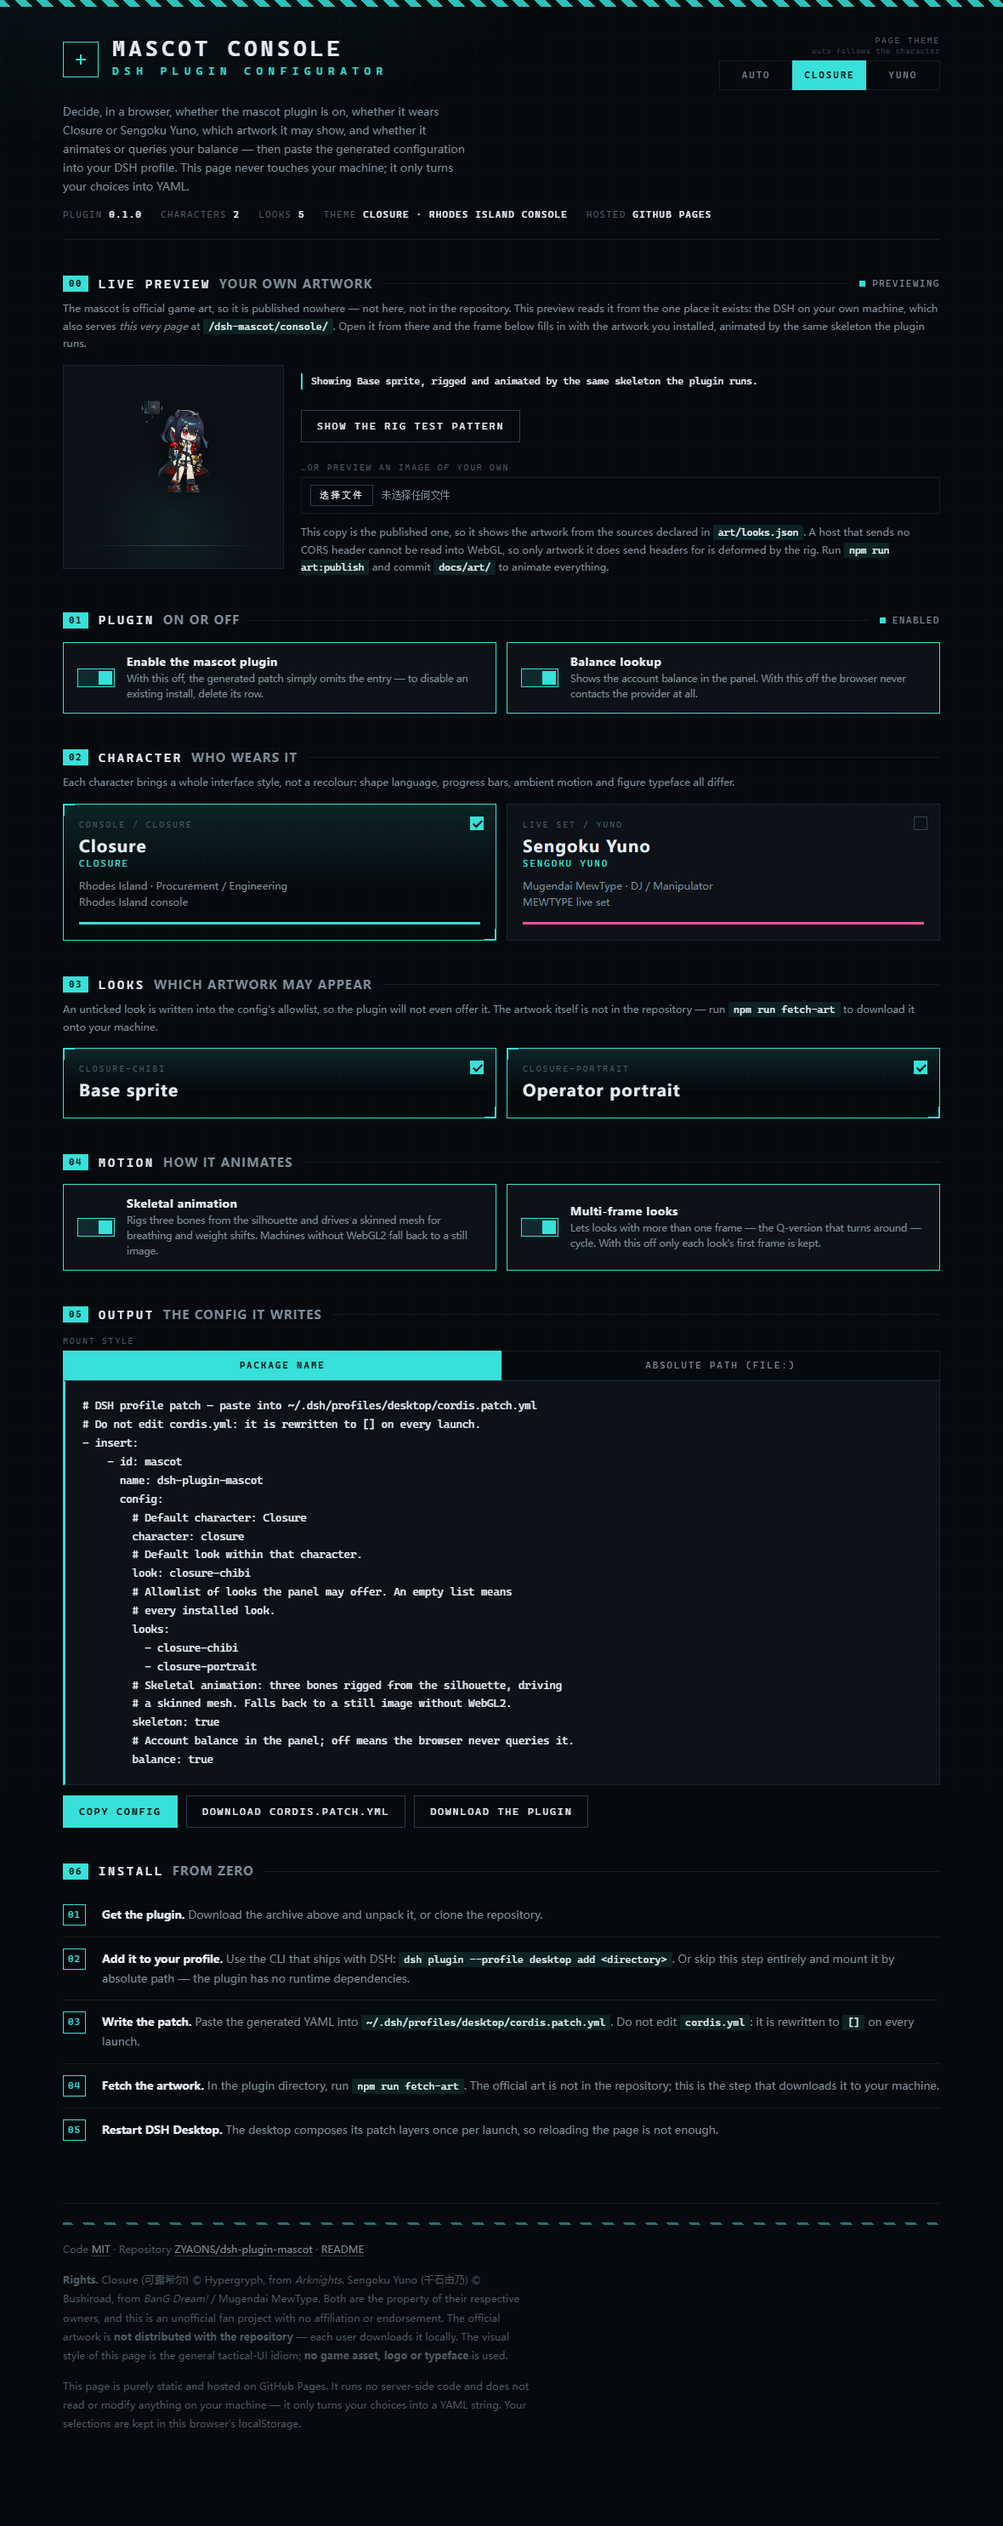
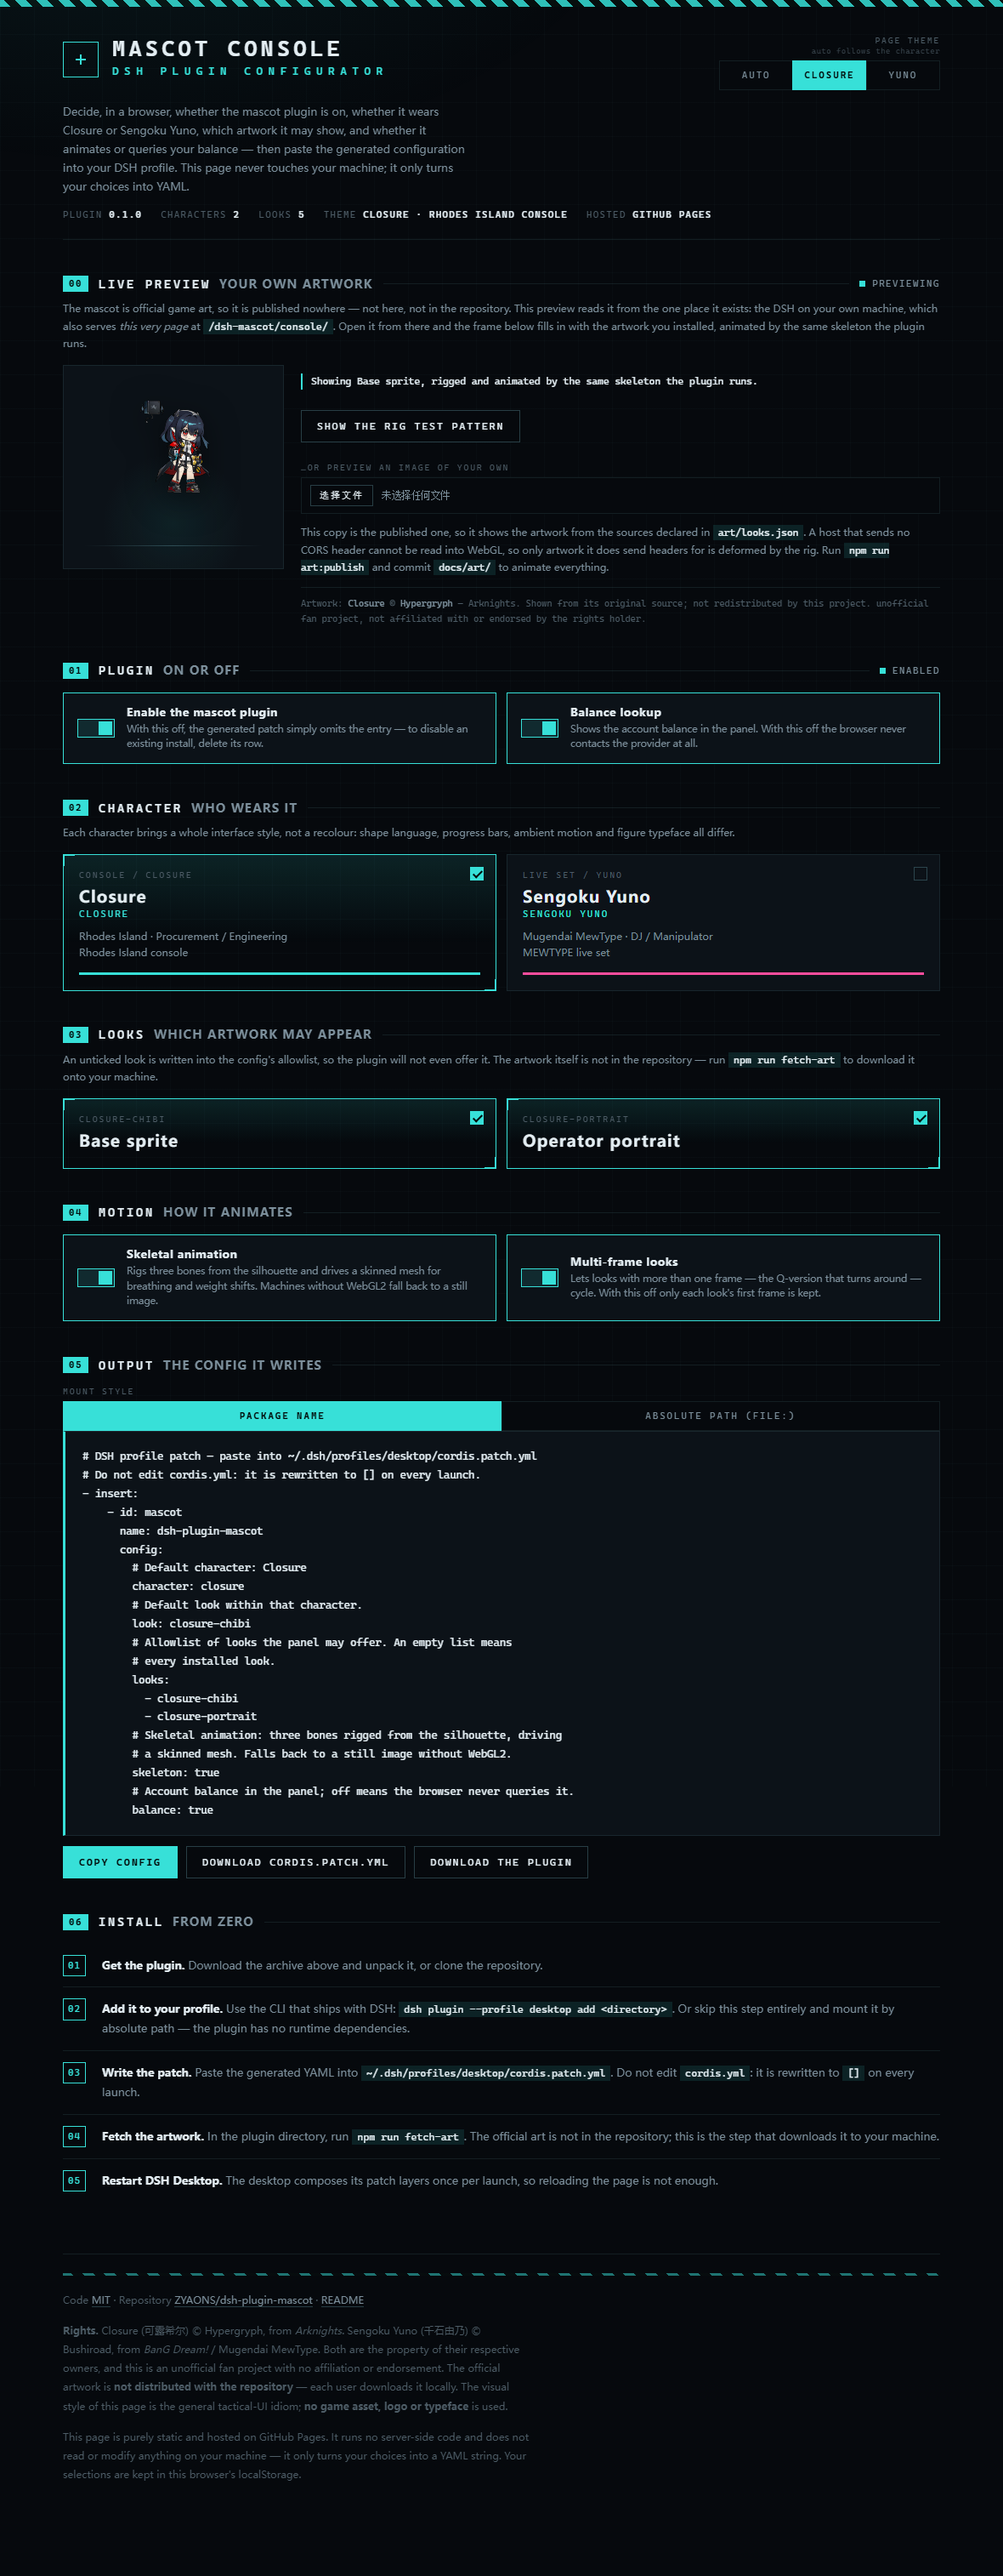
docs(legal): pin the copyright position down, and make it enforce itself
The console shows someone else's characters, so the project's posture towards that
should not be a paragraph in a README that a test can contradict.

What is actually settled, rather than assumed. Bushiroad publishes explicit terms for
BanG Dream!, which the Yuno looks fall under:

  https://bang-dream.com/bdp-guideline/

They permit derivatives for individuals, non-commercially, and state the project will
not claim infringement for uses that follow the terms. They also prohibit, at clause
5, "use that copies, traces or imports the content without adding any creativity".
That clause is what decides the design: committing closure-chibi.png into docs/ so
Pages would serve it is precisely the prohibited act, and redistribution of the
original asset was never inside a rule written for individual derivative works in the
first place. No equally explicit public guideline from Hypergryph surfaced while
writing this, so the stricter posture is applied to both characters.

Hence COPYRIGHT.md: what is MIT, what is not, who owns what, what the project does
instead of displaying artwork as-is (measures it, rigs it, drives it with a renderer
written here), and the six rules it holds itself to.

The rules are now enforced rather than stated:

  - npm test fails if any image under art/ or docs/art/ is tracked by git. Verified
    both ways: force-add a file and the suite refuses with the filename; remove it and
    the suite passes. A check that cannot fail is not a check.
[…]

diff --git a/docs/site/site.js b/docs/site/site.js
@@ -277,6 +277,7 @@ function render() {
   applyTheme();
   // The preview follows the selection: switching character switches what floats in
   // the frame, which is the point of having it here at all.
+  paintCredit(state.character);
   const preview = previewRef.current;
   if (preview !== null && preview !== undefined) {
     preview.show(state.character, enabledLooks(state.character)[0]?.id).catch(() => {});
@@ -286,6 +287,31 @@ function render() {
 //#endregion
 
 //#region preview
+/**
+ * Who owns the character on screen.
+ *
+ * Shown next to the artwork rather than only in the footer: the console displays
+ * someone else's character, and the credit belongs where the reader is looking.
+ * See COPYRIGHT.md — this project ships no artwork and claims no rights in it.
+ */
+const CREDITS = {
+  closure: { work: "Arknights", owner: "Hypergryph", note: "unofficial fan project" },
+  yuno: { work: "BanG Dream! / Mugendai MewType", owner: "Bushiroad", note: "unofficial fan project" },
+};
+
+/** Paint the attribution for the selected character. */
+function paintCredit(characterId) {
+  const credit = CREDITS[characterId];
+  const node = $("preview-credit");
+  if (credit === undefined) {
+    node.textContent = "";
+    return;
+  }
+  const character = characterOf(characterId);
+  node.innerHTML =
+    `Artwork: <b>${character?.nameEn ?? characterId}</b> © <b>${credit.owner}</b> — ${credit.work}. ` +
+    `Shown from its original source; not redistributed by this project. ${credit.note}, not affiliated with or endorsed by the rights holder.`;
+}
 /** The live preview, created on boot. A ref so `render` can reach it. */
 const previewRef = { current: null };
 

diff --git a/docs/site/site.css b/docs/site/site.css
@@ -359,6 +359,12 @@ footer .legal { margin-top: 14px; max-width: 78ch; }
 
 .preview-side { display: grid; gap: 12px; align-content: start; }
 .preview-note { margin: 0; font-size: 12px; line-height: 1.7; color: var(--dim); }
+/* Attribution sits with the artwork, not only in the footer. */
+.credit {
+  margin: 0; padding-top: 10px; border-top: 1px solid var(--line);
+  font-family: var(--mono); font-size: 10.5px; line-height: 1.7; color: var(--dimmer);
+}
+.credit b { color: var(--dim); font-weight: 500; }
 .preview-note code { font-size: 11.5px; }
 .preview-status {
   margin: 10px 0 0; font-family: var(--mono); font-size: 11.5px; line-height: 1.7;

diff --git a/docs/index.html b/docs/index.html
@@ -73,6 +73,7 @@
           <input id="preview-file" type="file" accept="image/*">
         </label>
         <p class="preview-note" id="preview-note"></p>
+        <p class="credit" id="preview-credit"></p>
       </div>
     </div>
   </section>

diff --git a/COPYRIGHT.md b/COPYRIGHT.md
@@ -1,0 +1,110 @@
+# Copyright and licensing
+
+This repository is **code under MIT** plus **references to artwork that belongs to
+someone else**. The distinction is the whole point of this file.
+
+---
+
+## 1. What is licensed to you
+
+| Path | Status |
+|---|---|
+| `lib/`, `scripts/`, `docs/site/*.js`, `docs/site/*.css`, `docs/index.html` | MIT — see [LICENSE](LICENSE) |
+| `art/looks.json`, `art/index.json` | MIT — these are data this project generated: a declaration and measurements |
+| `README.md`, `README.zh.md`, `COPYRIGHT.md`, `docs/site/*.png` | MIT |
+
+Nothing in this repository is a copy of anyone's artwork. `art/index.json` contains
+*measurements of* artwork — a bounding box, a silhouette profile, a seat size — which
+is why the plugin can rig an image it has never seen.
+
+## 2. What is not licensed to you, because it is not ours
+
+| Character | Owner | Source |
+|---|---|---|
+| Closure / 可露希尔 | © Hypergryph (上海鹰角网络) — *Arknights* / 明日方舟 | official game assets |
+| Sengoku Yuno / 千石由乃 | © Bushiroad — *BanG Dream!* / Mugendai MewType | official game and anime assets |
+
+**No artwork by either owner is contained in this repository, in any commit.**
+`npm run fetch-art` downloads it to the machine that runs the command, for that
+person's own use. `.gitignore` excludes every image path under `art/`, and
+`docs/art/` — where `npm run art:publish` puts a copy — is excluded too.
+
+## 3. The terms this project is built around
+
+Bushiroad publishes an explicit policy for *BanG Dream!*, which the Yuno looks fall
+under: **[「BanG Dream!（バンドリ！）」著作物利用に関するガイドライン](https://bang-dream.com/bdp-guideline/)**.
+Two parts of it shape this project's design.
+
+**The allowance.** Derivatives are permitted for **individuals, for non-commercial
+purposes**, and the project states it will not claim infringement for uses following
+its terms:
+
+> お客様は、本コンテンツを利用し、本コンテンツに新たな創作性を加えお客様ご自身が制作した著作物（以下「二次的著作物」といいます）を、個人により営利を目的としない場合に限り、制作、展示、頒布および公開…することができます。
+
+**The prohibition that decides the design.** Copying the content *as is* is not
+permitted:
+
+> 5. なんらの創作性も加えずに、本コンテンツをコピー、トレース、取り込み等をして利用するもの
+
+That clause is why **this repository never carries the artwork**. Committing
+`closure-chibi.png` into `docs/` so GitHub Pages would serve it would be exactly
+"importing the content without adding creativity" — and redistribution of the
+original asset is not within a rule written for individual, non-commercial
+derivative works in the first place. The same reasoning applies to Closure: no
+equally explicit public guideline from Hypergryph was found while writing this, so
+the stricter of the two postures is applied to both characters.
+
+## 4. What this project does instead, and why that is a derivative work
+
+The plugin does not display the artwork as-is. It:
+
+- measures each image's silhouette and derives a **rig** from it;
+- drives that rig with a **skinning renderer written for this project**;
+- renders the result with a per-character interface built here.
+
+The artwork is the *input* to something this project made, which is the "new
+creativity" the guideline asks for. The web console loads each look **from the
+source that already hosts it**, so the pixels travel from the rights holder's chosen
+host to the viewer's browser and are never redistributed here.
+
+## 5. Rules this project holds itself to
+
+1. **No artwork in the repository.** Enforced by `.gitignore` and by a test:
+   `npm test` fails if any image file is tracked under `art/` or `docs/art/`.
+2. **No redistribution.** `fetch-art` downloads to one machine. `art:publish` copies
+   into `docs/art/` for local preview only, refuses to run without an explicit
+   acknowledgement, and that directory is gitignored.
+3. **Non-commercial.** No advertising, no sponsorship, no paid tier, no donations
+   tied to this project.
+4. **No implied affiliation.** The project is unofficial. It uses no owner's logo,
+   wordmark, typeface or trade dress — the console's visual language is the general
+   tactical-UI idiom.
+5. **Attribution on screen.** Where artwork is displayed, the console names the
+   rights holder next to it rather than burying it in a footer.
+6. **A takedown request is honoured immediately.** If either rights holder objects,
+   the affected looks are removed by deleting their entries from `art/looks.json` —
+   no other part of the project depends on them.
+
+## 6. If you fork this
+
+You inherit none of the artwork rights, and the reasoning above is not legal advice.
+If you want the characters visible on your own deployed copy, the sources are
+declared in `art/looks.json` and the console will load them from there. Publishing
+the files yourself is your decision and your risk — which is why this project makes
+you type the acknowledgement to do it.
+
+---
+
+## 中文摘要
+
+- **代码是 MIT 的**（`lib/`、`scripts/`、`docs/site/`）。`art/index.json` 不是素材，
+  是这个项目自己量出来的数据（包围盒、轮廓剖面），所以也属于代码。
+- **立绘不是我们的**：可露希尔 © 鹰角网络《明日方舟》；千石由乃 © Bushiroad《BanG Dream!》/ 梦限大 MewType。
+- **仓库里一张官方图都没有**，任何一次提交都没有。`npm run fetch-art` 只下载到你自己的机器。
+- Bushiroad 有公开的[著作物利用指引](https://bang-dream.com/bdp-guideline/)，
+  允许**个人、非营利**的二次创作，但**第 5 条明确禁止**「不加任何创作性地复制、描摹、导入」。
+  把官方图提交进 `docs/` 让 Pages 公开提供，正是那一条禁止的事 —— 所以本项目不做。
+- 本项目做的是：自己测轮廓、自己写骨骼与蒙皮、自己做界面 —— 官方图是**输入**，不是产出。
+  公网页面从**素材原本的出处**加载，像素不经过这个仓库。
+- 自我约束写在第 5 节，并且**由测试强制**：`art/` 或 `docs/art/` 下只要有图片被 git 跟踪，`npm test` 就失败。
+- 以上不构成法律意见。如果权利方提出异议，删掉 `art/looks.json` 里对应的条目即可，其余部分不受影响。

diff --git a/README.zh.md b/README.zh.md
@@ -109,6 +109,17 @@ dsh plugin --profile desktop add "github:ZYAONS/dsh-plugin-mascot"
 
 ---
 
+## 版权
+
+**这个仓库里没有一张属于别人的图。** 角色版权归各自权利人所有 ——
+可露希尔 © 鹰角网络《明日方舟》，千石由乃 © Bushiroad《BanG Dream!》/ 梦限大 MewType ——
+`npm run fetch-art` 是把图下载到每台机器上，而不是随仓库分发。
+Bushiroad 的[著作物利用指引](https://bang-dream.com/bdp-guideline/)允许个人、非营利的二次创作，
+但禁止不加创作性地复制导入，所以官方图永远不进仓库，公网页面从素材原本的出处加载。
+
+完整立场见 **[COPYRIGHT.md](COPYRIGHT.md)**：哪些是 MIT、哪些不是、
+以及「一旦有素材被 git 跟踪就失败」的那条测试。
+
 ## 网页配置台
 
 在**浏览器里**决定这个插件怎么装、用哪个角色，不用先装到本机：

diff --git a/README.md b/README.md
@@ -116,6 +116,19 @@ another restart.
 
 ---
 
+## Copyright
+
+**This repository contains no artwork belonging to anyone else.** The characters are
+© their owners — Closure © Hypergryph (*Arknights*), Sengoku Yuno © Bushiroad
+(*BanG Dream!* / Mugendai MewType) — and `npm run fetch-art` downloads the images onto
+each machine rather than shipping them. Bushiroad's terms permit individual,
+non-commercial derivative works and prohibit copying the content without adding
+creativity, which is why the artwork is never committed and the characters are shown
+from their original sources instead.
+
+Read **[COPYRIGHT.md](COPYRIGHT.md)** for the full position, including what is MIT,
+what is not, and the test that fails if artwork is ever tracked by git.
+
 ## Web console
 
 Decide how this plugin is mounted and which character it wears **in a browser**,
